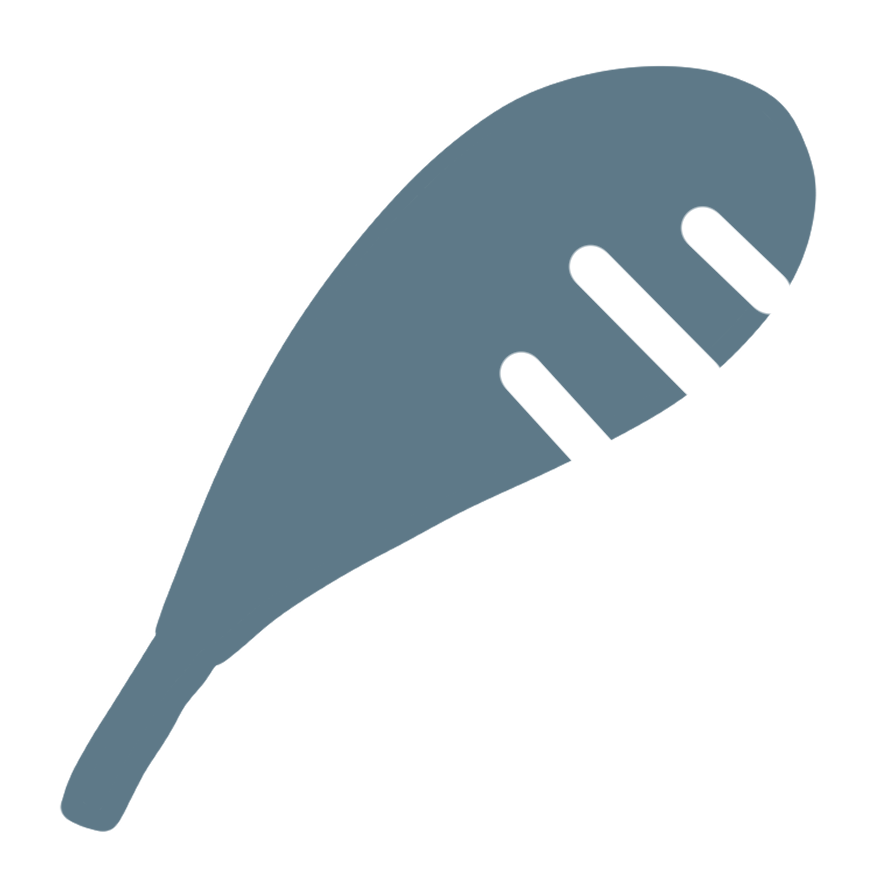
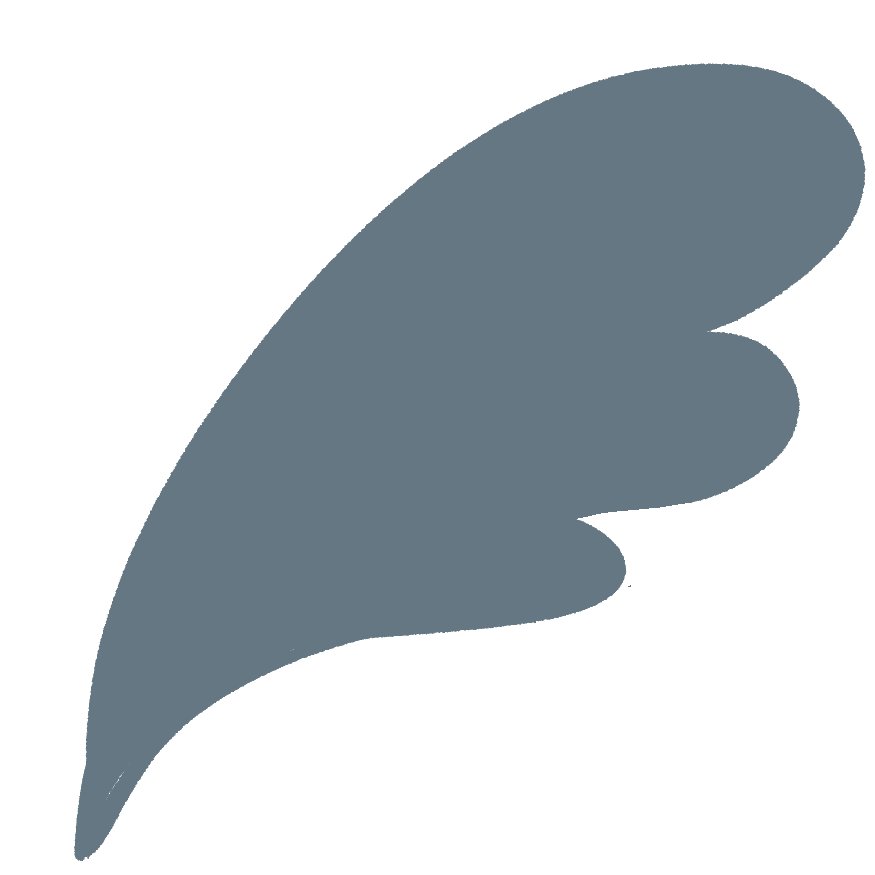
文言やロゴ、プレースホルダの修正

diff --git a/src/components/app-header.tsx b/src/components/app-header.tsx
@@ -6,12 +6,14 @@ type AppHeaderProps = {
   title?: string;
   description?: string;
   className?: string;
+  logoSrc?: string;
 };
 
 export async function AppHeader({
   title,
   description,
   className = "",
+  logoSrc = "/kotopoke_donguri.png",
 }: AppHeaderProps) {
   const user = await getCurrentUser();
   const isAnonymousUser = user.name === "名無しさん";
@@ -23,7 +25,7 @@ export async function AppHeader({
       <div className="flex flex-col gap-4 pb-8 sm:flex-row sm:items-center sm:justify-between">
         <Link href="/" className="flex w-fit items-center gap-3">
           <Image
-            src="/kotopoke_donguri.png"
+            src={logoSrc}
             alt="ことぽけ"
             width={24}
             height={24}
@@ -38,7 +40,7 @@ export async function AppHeader({
             href="/kotoba/random"
             className="transition hover:text-[#5f8f86]"
           >
-            ことばに出会う
+            ことばにであう
           </Link>
           <Link href="/kotobatachi" className="transition hover:text-[#5f8f86]">
             {wordsLinkLabel}

diff --git a/src/app/kotoba/random/actions.ts b/src/app/kotoba/random/actions.ts
@@ -15,6 +15,7 @@ export async function collectRandomWordAction(formData: FormData) {
   const result = await createWord({
     text: text.trim(),
     reading: typeof reading === "string" ? reading : undefined,
+    source: "ことぽけ",
     meaning: typeof meaning === "string" ? meaning : undefined,
   });
 

diff --git a/src/app/kotoba/random/page.tsx b/src/app/kotoba/random/page.tsx
@@ -21,6 +21,7 @@ export default async function RandomWordPage() {
           title="ことばにであう"
           description="辞書の中から、偶然ひとつのことばをひろいます。"
           className="pb-6"
+          logoSrc="/kotopoke_hane.png"
         />
 
         <section className="mt-8 flex-1 rounded-lg border border-stone-200 bg-[#fffdf8] p-6 shadow-sm">